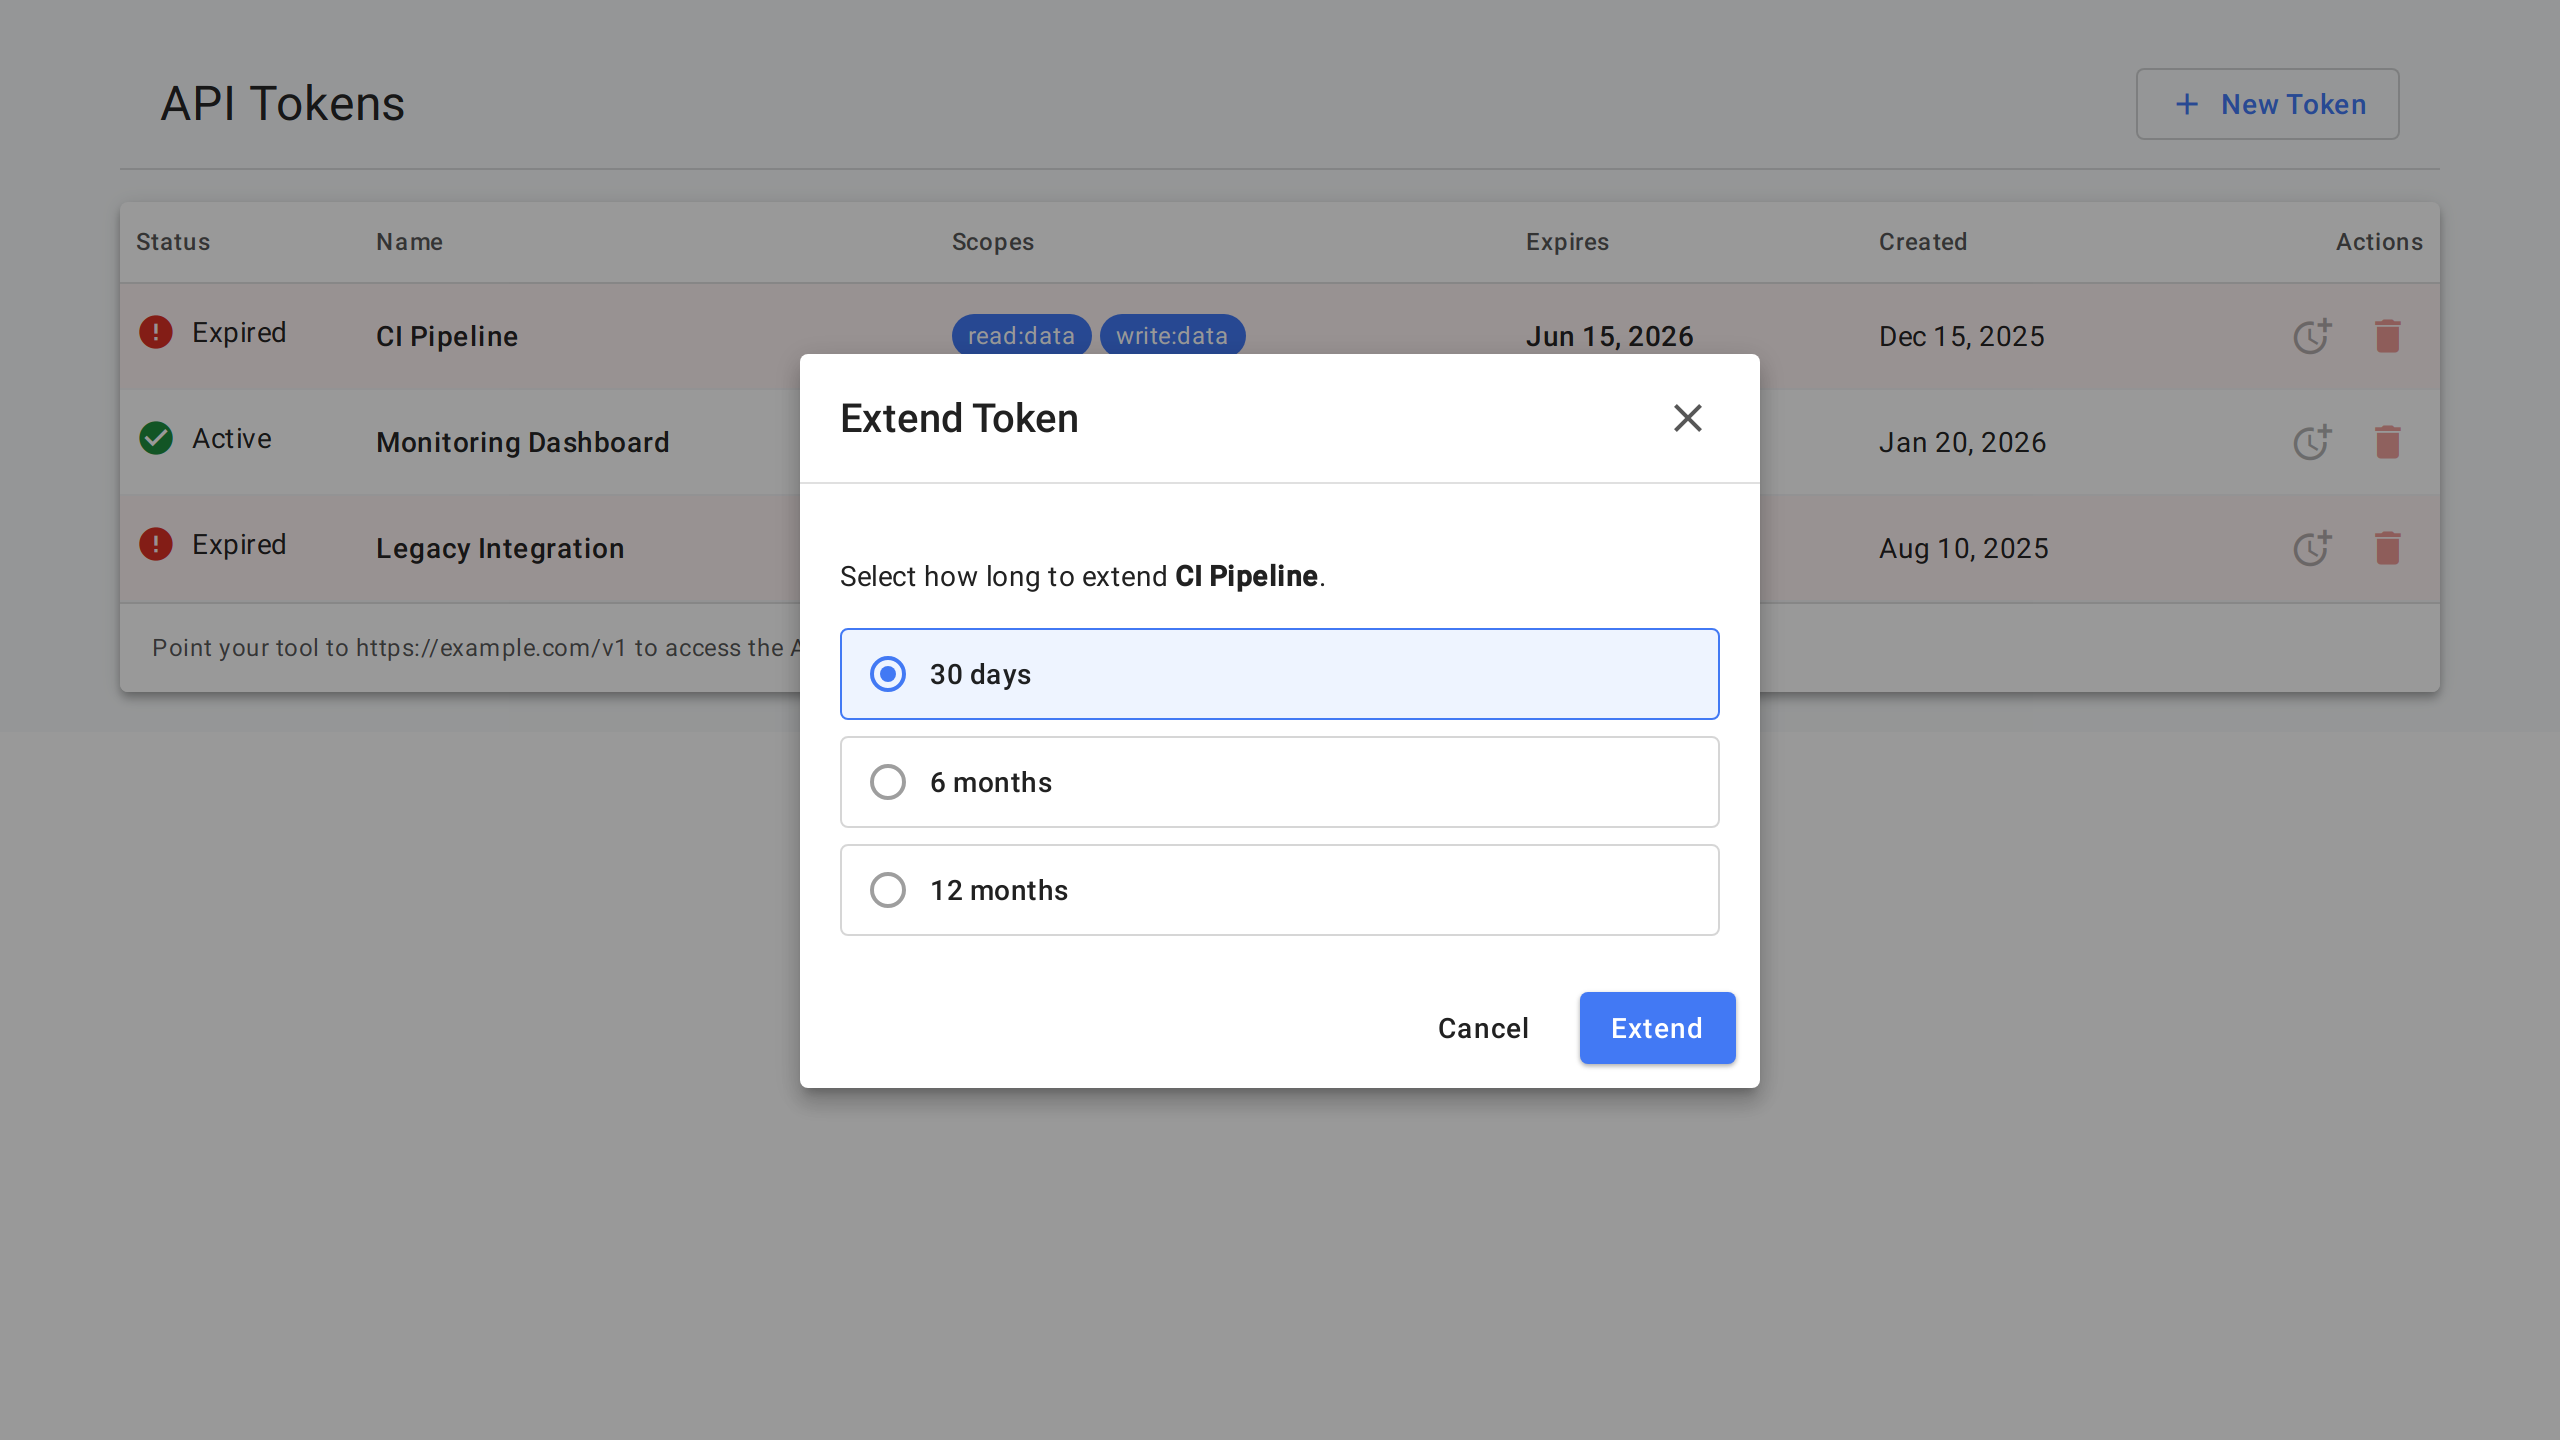
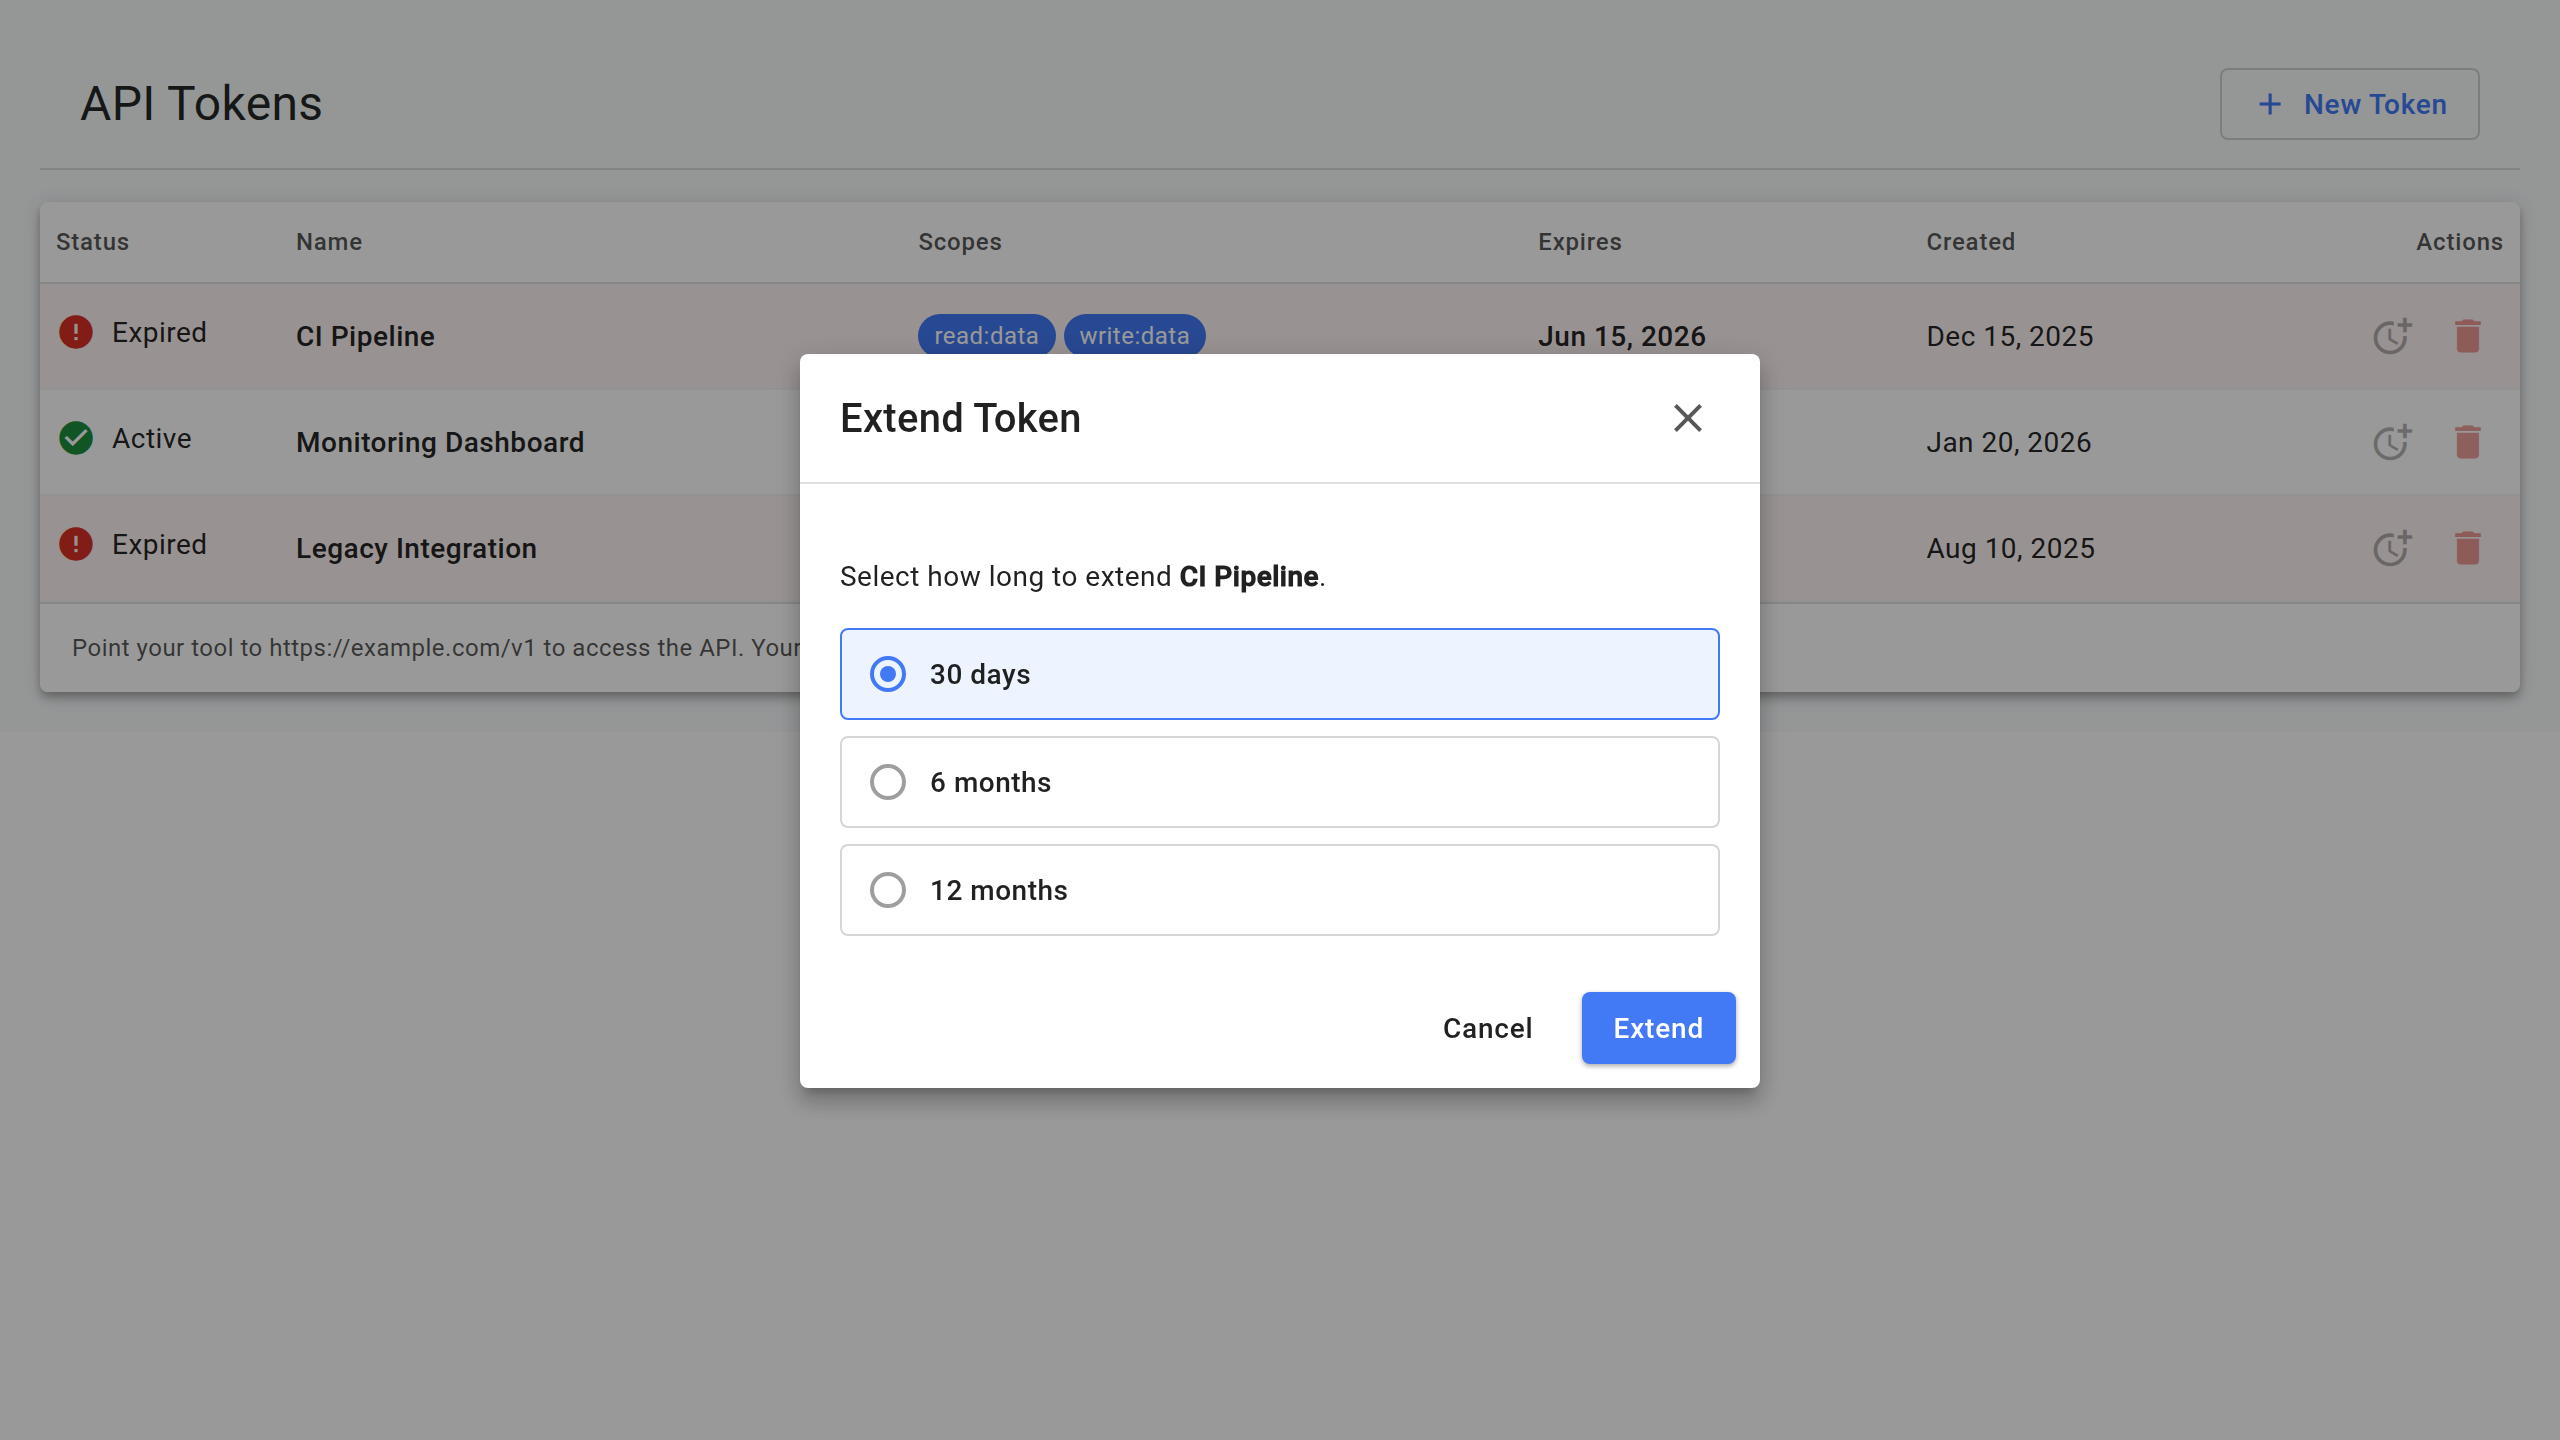
Fix token table margins to match embedded dashboard
The token-ui page constrained its content with `max-width: 1200px` and
`margin: 0 auto`, centering the table and leaving large uneven side
margins when embedded in the Central Dashboard chrome. The dashboard's
own tables span the full content width with only the standard page
padding. Drop the max-width/centering so the API token table matches.

Regenerate the token-ui screenshots to reflect the full-width layout.

Claude-Session: https://claude.ai/code/session_01UmxxHPNPtzNY2X2s1MNGBF

diff --git a/pages/token-ui/app.css b/pages/token-ui/app.css
@@ -10,8 +10,6 @@ body {
 
 .page {
 	padding: var(--page-padding-x);
-	max-width: 1200px;
-	margin: 0 auto;
 }
 
 /* expired-row tint — matches DS error-bg but very subtle */
